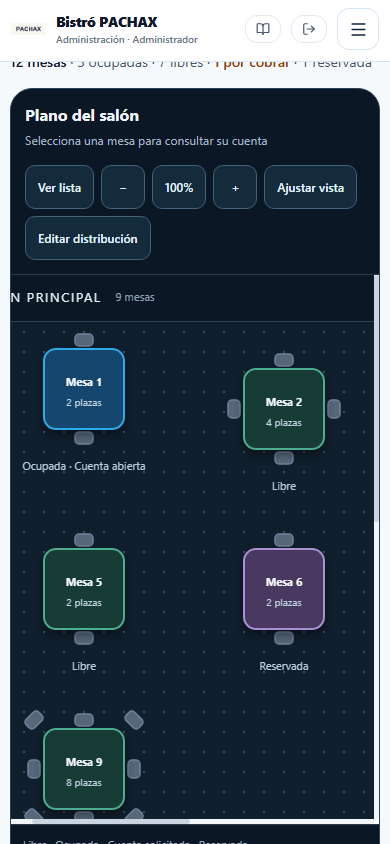
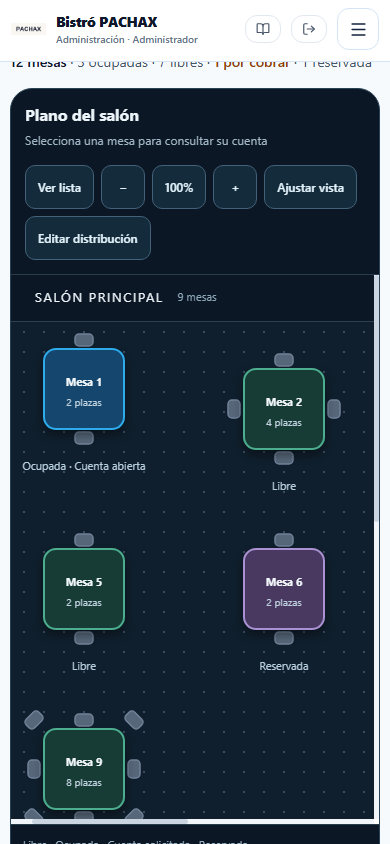
Keep sector labels visible while panning the floor

diff --git a/src/modules/restaurant/components/restaurantFloorCanvas.css b/src/modules/restaurant/components/restaurantFloorCanvas.css
@@ -41,12 +41,22 @@ outline-offset:3px}
 .restaurant-floor-controls button:disabled{
 opacity:.45}
 .restaurant-floor-scroll{
+--floor-gutter:20px;
 overflow:auto;
 max-height:70vh;
 overscroll-behavior:contain;
-padding:20px}
+padding:var(--floor-gutter)}
 .restaurant-floor-sector{
 margin-bottom:24px}
+.restaurant-floor-sector:has(.restaurant-floor-space){
+width:max-content;
+min-width:100%}
+.restaurant-floor-sector:has(.restaurant-floor-space) h2{
+position:sticky;
+left:var(--floor-gutter);
+width:max-content;
+max-width:min(65vw,440px);
+overflow-wrap:anywhere}
 .restaurant-floor-sector h2{
 font-size:13px;
 letter-spacing:.12em;
@@ -163,7 +173,7 @@ width:180px}
 .restaurant-floor-toolbar{
 padding:14px}
 .restaurant-floor-scroll{
-padding:12px;
+--floor-gutter:12px;
 max-height:65vh}
 .restaurant-floor-editor{
 padding:14px}
